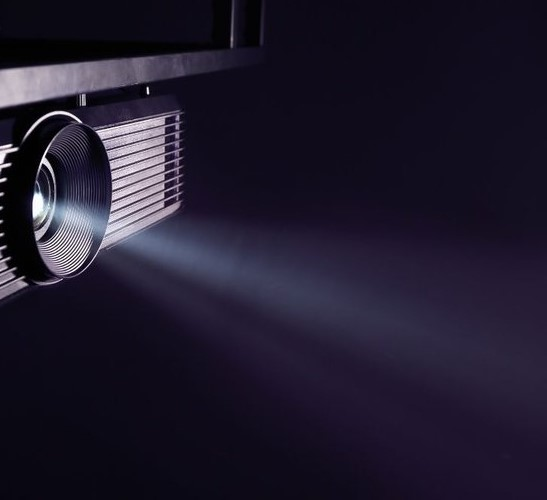
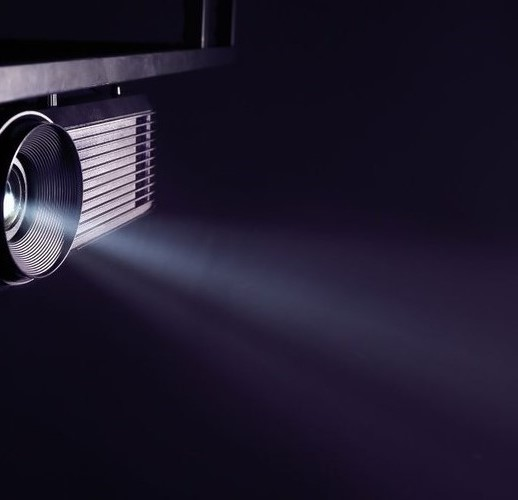
j

Changed region(s): [[0.0, 0.0, 0.4942, 0.6]]

diff --git a/css/index.css b/css/index.css
@@ -5,8 +5,6 @@ header
     text-align: center;
     padding-inline: 1rem;
     position: relative;
-    background-repeat: no-repeat;
-    background-size: cover;
     background-position-y: -450px;   
 }
 
@@ -52,9 +50,7 @@ header img
     padding: 1rem;
     padding-top: 0;
     background-color: var(--sectionBackground);
-    background-repeat: no-repeat;
-    background-size: cover;
-    background-position-y: -802px;
+    background-position-y: -809px;
 }
 
 #searchPanel 
@@ -96,10 +92,12 @@ header img
     margin-top: 1rem;
     background-color: var(--sectionBackground);
     padding-block: 1rem;
+    background-position-y: -809px;
 }
 
 #data 
 {
     width: fit-content;
     margin: 0 auto;
+    font-family: 'Roboto', sans-serif;
 }

diff --git a/php/js/listForm.js b/php/js/listForm.js
@@ -47,7 +47,7 @@ class AbstractForm
         this.#server = server;
         this.dataSection = document.getElementById("dataSection");
         this.data = document.getElementById("data");
-        this.rt = document.getElementsByClassName("rt")[0];
+        this.rt = document.getElementsByTagName("footer")[0];
         this.recordTrackerLabel = this.rt.getElementsByClassName("recordTrackerLabel")[0];
     }
 

diff --git a/css/recordTracker.css b/css/recordTracker.css
@@ -1,12 +1,12 @@
-.rt 
+footer
 {
-    background-color: var(--sectionBackground);
+    font-family: 'Roboto', sans-serif;
+    background-position-y: -900px;
 }
 
 .recordTrackerSection
 {
     margin-top: 1rem;
-    background-color: var(--sectionBackground);
     padding-block: .5rem;
     border-radius: 1rem;
 }

diff --git a/css/file.css b/css/file.css
@@ -11,6 +11,12 @@
     text-rendering: optimizeLegibility;
 }
 
+header, section, footer
+{
+    background-repeat: no-repeat;
+    background-size: cover;
+}
+
 h1 
 {
     letter-spacing: 2px;

diff --git a/css/data.css b/css/data.css
@@ -80,7 +80,6 @@ td button:hover
 
 #noData 
 {
-    background-color: var(--sectionBackground);
     position: relative;
     padding-bottom: 2rem;
 }

diff --git a/index.php b/index.php
@@ -21,6 +21,10 @@
 
         <link rel="preconnect" href="https://fonts.googleapis.com">
         <link rel="preconnect" href="https://fonts.gstatic.com" crossorigin>
+        <link href="https://fonts.googleapis.com/css2?family=Roboto:ital,wght@0,100;0,300;0,400;0,500;0,700;0,900;1,100;1,300;1,400;1,500;1,700;1,900&display=swap" rel="stylesheet">
+
+        <link rel="preconnect" href="https://fonts.googleapis.com">
+        <link rel="preconnect" href="https://fonts.gstatic.com" crossorigin>
         <link href="https://fonts.googleapis.com/css2?family=Paytone+One&display=swap" rel="stylesheet">
         <link rel="stylesheet" href="css/file.css">
         <link rel="stylesheet" href="css/data.css">
@@ -48,19 +52,17 @@
                     </div>
                 </section>
 
-                <section id="dataSection">
+                <section id="dataSection" style="background-image: url('img/projector.jpg')">
                     <div id="data">
-                        <table>
                             <?php $controller->displayData();?>
-                        </table>
                     </div>
-                </section>
-
-                <section class="rt">
-                    <?php $controller->recordTracker->addRecordTracker()?>
                 </section>
             </main>
         </div>
+
+        <footer style="background-image: url('img/projector.jpg')">
+                    <?php $controller->recordTracker->addRecordTracker()?>
+        </footer>
 
         <script>
             new ListForm("php/controller/FilmFormListController.php");

diff --git a/php/controller/FilmFormListController.php b/php/controller/FilmFormListController.php
@@ -16,18 +16,18 @@
         {
             if ($this->recordCount()==0) 
             {
-                echo "<tr>
-                <th colspan='6' style='padding: 0rem;'>
+                echo "<table style='background-color:transparent'><tr>
+                <th colspan='6' style='padding: 0rem; border-bottom: none;'>
                 <div id='noData'>
                     <p>NO DATA</p>
                     <img src='img/idk.png'>
                 </div>
                 </th>
-                </tr>";    
+                </tr></table>";    
                 return;
             }
 
-            echo "<tr>
+            echo "<table><tr>
             <th colspan='2'>Title</th>
             <th>Year</th>
             <th>Rating</th>
@@ -51,6 +51,7 @@
                         <td><button class=deleteButton value={$film->filmID}>X</button></td>
                     </tr>";
             }
+            echo "</table>";
         }
 
         public function findIDCriteria($record,$id) : bool
